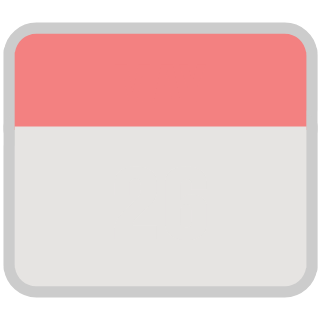
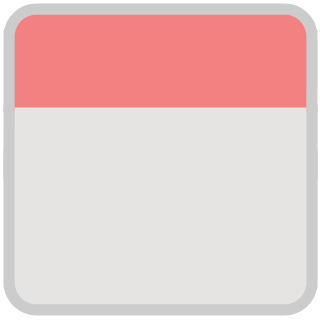
fix(template): update calendar template to make it squared

Changed region(s): [[0.0, 0.8438, 1.0, 1.0], [0.0, 0.0, 1.0, 0.1562], [0.0312, 0.3125, 0.9688, 0.4062]]

diff --git a/main.go b/main.go
@@ -134,7 +134,7 @@ func generateCalendarImage(date time.Time, template image.Image, fontFace font.F
 	// Calculate the text position
 	textX := (width - textWidth) / 2
 
-	drawer.Dot = fixed.P(textX, 50+fontSize)
+	drawer.Dot = fixed.P(textX, 30+fontSize)
 
 	drawer.DrawString(date.Format("January"))
 
